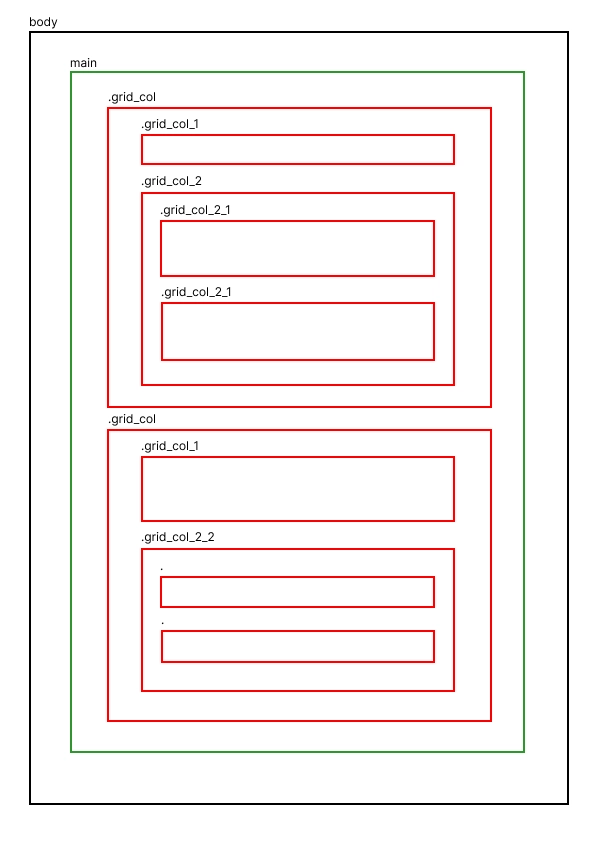
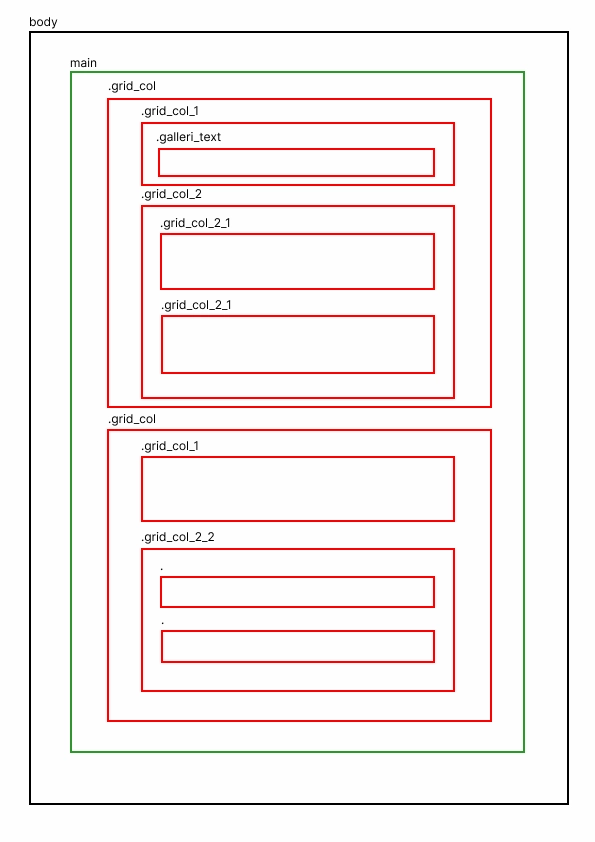
ændret videoer,  layoutdiagram og tilføjet tekst

Changed region(s): [[0.242, 0.3088, 0.7563, 0.4941], [0.1815, 0.0926, 0.8168, 0.2779]]

diff --git a/galleri.html b/galleri.html
@@ -27,6 +27,19 @@
         <div class="grid_col">
             <div class="grid_col_1">
                 <h2>Galleri</h2>
+                <div class="galleri_text">
+                    <p>
+                        Selvom kunst og tegning altid har inspireret Frederik, begyndte han først at male serien "The
+                        Art of Fine Living" omkring 2012. Serien er en kritik af det travle moderne samfund, inspireret
+                        af 1500- og 1600-tallets franske og hollandske stillleben-kunstnere. Senere rettede han sit
+                        fokus
+                        mod klodens unikke dyreliv og lærte om vores fælles udfordringer med at bevare naturen. Det er
+                        nu hans passion at
+                        bidrage til bevarelsen af natur og dyreliv. 20% af salgsprisen for Frederiks værker går til
+                        projekter globalt.
+                    </p>
+
+                </div>
             </div>
             <div class="grid_col_2">
                 <div class="grid_col_2_1">
@@ -35,7 +48,7 @@
                 </div>
                 <div class="grid_col_2_1">
                     <img class="img_3" src="img/baggrund.webp" alt="bredformat">
-                    <img class="img_4" src="img/portrait_2.webp" alt="portræt">
+                    <img class="img_4" src="img/portrait_3.webp" alt="portræt">
                 </div>
             </div>
         </div>

diff --git a/video.html b/video.html
@@ -23,8 +23,8 @@
     </header>
 
     <main>
-        <video controls src="https://ceciliejadach.dk/kea/05_indhold/01_pilotvideo/pilotvideo.mp4"></video>
-        <iframe width="560" height="315" src="https://www.youtube.com/embed/3u9IAUbiQLs?si=P5cE-oKmoSaY7Hmv"
+        <video controls src="https://ceciliejadach.dk/kea/05_indhold/01_pilotvideo/pilotvideo1.mp4"></video>
+        <iframe width="560" height="315" src="https://www.youtube.com/embed/oNJRN_gg8K4?si=2lrgj7A9HvQew9qm"
             title="YouTube video player" frameborder="0"
             allow="accelerometer; autoplay; clipboard-write; encrypted-media; gyroscope; picture-in-picture; web-share"
             allowfullscreen></iframe>

diff --git a/generel.css b/generel.css
@@ -10,6 +10,7 @@ video {
   height: auto;
   display: block;
 }
+
 .nav_links {
   list-style-type: none;
   padding: 50px;
@@ -79,6 +80,18 @@ a {
 
 h2 {
   font-family: "Bebas Neue", sans-serif;
+}
+
+.galleri_text p {
+  font-size: 1rem;
+  text-align: left;
+  margin: 0px 20px;
+  line-height: 1.5rem;
+}
+
+hr {
+  border: 1px solid black;
+  margin: 0px 20px;
 }
 
 p {

diff --git a/layout.css b/layout.css
@@ -24,6 +24,18 @@
     font-size: 3.5rem;
   }
 
+  .galleri_text p {
+    font-size: 1.2rem;
+    max-width: 800px;
+
+    line-height: 1.8rem;
+  }
+
+  hr {
+    border: 1px solid black;
+    margin: 0px 20px;
+  }
+
   .grid_col {
     display: grid;
     grid-template-columns: 1fr 2fr;
